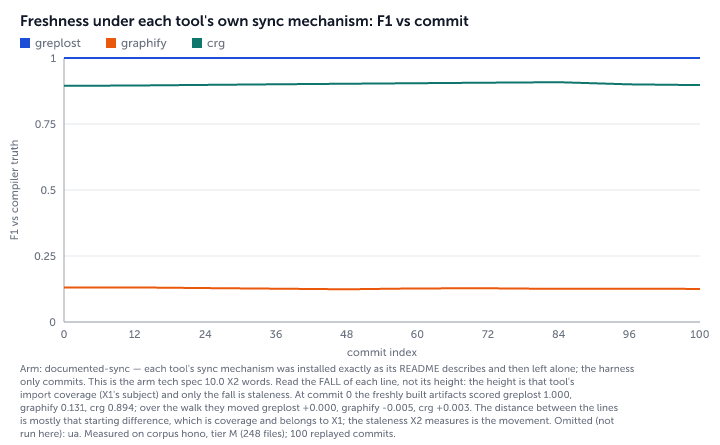
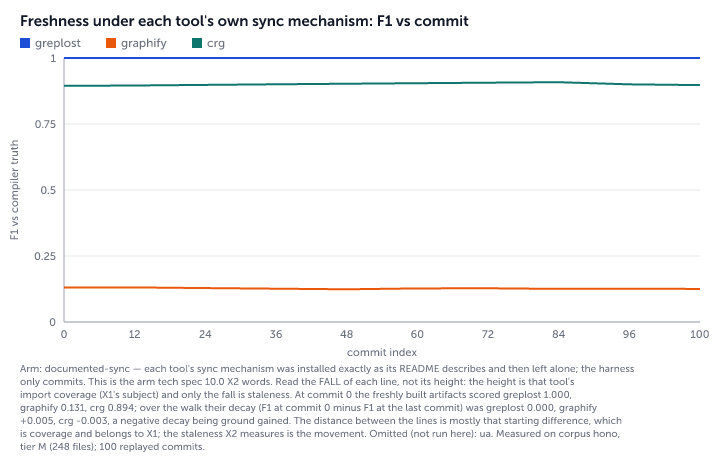
fix(bench-report): the tier-S metrics re-measured so every loss carries its reason
`bun run bench:headtohead --tier S --metrics X1,X4,X5,X6` at 173a463. The run
was needed for two round-2 items that live in the payload rather than in the
renderer: X5's graphify cell now carries the reason its `loss` verdict owes the
reader ("24 of 99031 artifact lines changed against greplost's 54 of 10511, a
quieter diff than greplost's", with the three files named), and X6's target is
stored scoped — "<= 5s and $0 (measured on anyq, tier S, not tier M)" — in the
JSON and not only in the document.

X1 calls 1.000 P / 0.468 R and imports 1.000 P / 1.000 R, X4 0 bytes, X5 a
published loss at 54 of 10,511 lines, X6 0.283 s. The superseded dfb733a
payload is removed; it is in history.

bun test 1238 pass 0 fail; typecheck clean; 12/12 gates met.

diff --git a/bench/RESULTS.md b/bench/RESULTS.md
@@ -13,7 +13,7 @@ Suites with no result file in `bench/results/`, rendered as `not run`: agent.
 | cores | 16 |
 | cpu | Apple M4 Max |
 | go | go version go1.25.3 darwin/arm64 |
-| greplostSha | dfb733a |
+| greplostSha | b908e0f |
 | greplostVersion | 0.0.1 |
 | memoryGB | 128 |
 | node | 24.3.0 |
@@ -32,7 +32,7 @@ Suites with no result file in `bench/results/`, rendered as `not run`: agent.
 | Component | Version |
 |---|---|
 | greplostVersion | 0.0.1 |
-| greplostSha | dfb733a |
+| greplostSha | b908e0f |
 | bun | 1.2.21 |
 | node | 24.3.0 |
 | go | go version go1.25.3 darwin/arm64 |
@@ -44,7 +44,7 @@ Suites with no result file in `bench/results/`, rendered as `not run`: agent.
 
 greplost against Graphify, Understand-Anything and code-review-graph (tech spec 3.1, 10.0). The `vs` columns are greplost's verdict against that tool: `win` means greplost came out ahead by the metric's margin, `tie` inside it, `loss` behind it, `n/a` when the tool could not be run at all. Every loss and every `n/a` carries its reason.
 
-- X1, X4, X5, X6: Measured 2026-09-02 at dfb733a on anyq, tier S (148 files).
+- X1, X4, X5, X6: Measured 2026-09-02 at 173a463 on anyq, tier S (148 files).
 - X2, X3: Measured 2026-09-02 at b908e0f on hono, tier M (248 files, 100 commits).
 
 | ID | Target | Measured | vs graphify | vs ua | vs crg | Reason on loss |
@@ -53,8 +53,8 @@ greplost against Graphify, Understand-Anything and code-review-graph (tech spec 
 | X2 | greplost F1 >= 0.99 after 100 commits | 1 | tie (decay +0.0052 (0.131 to 0.125)) | n/a | tie (decay -0.0028 (0.894 to 0.897)) | greplost: greplost started the walk at 1 import F1 and ended at 1, a fall of 0.000. The level is coverage (X1's subject); only the fall is staleness |
 | X3 | <= 1% of ua, <= 20% of graphify over 100 commits | $0, 0.299 min | win ($0, 2.365 min) | n/a | win ($0, 0.858 min) | greplost: evaluated on the graphify arm of the target only: 12.6% of graphify's wall-clock (target <= 20%). The ua arm cannot be evaluated — Understand-Anything has no headless entry point here, so no cost exists to take 1% of. |
 | X4 | 0 bytes differ | 0 bytes | tie (0 bytes) | n/a | win (5160286 bytes) |  |
-| X5 | <= 10 artifact lines | 54 of 10511 lines | loss (24 of 99031 lines) | n/a | win (60 of 88119 lines) | greplost: 54 artifact lines of 10511 changed across 12 files for a one-line source change; the target is 10 lines. Where: `manifest.json` 20 lines, `packages/anyq__kafka/MAP.md` 8 lines, `packages/anyq__example-retry-strategies/MAP.md` 7 lines, `packages/anyq__example-retry-strategies/modules/src/adapters/kafka.ts.md` 4 lines, and 8 more files |
-| X6 | <= 5s and $0 (measured on anyq, tier S, not tier M) | 0.266 s ($0) | win (2.062 s) | n/a | win (1.125 s) |  |
+| X5 | <= 10 artifact lines | 54 of 10511 lines | loss (24 of 99031 lines) | n/a | win (60 of 88119 lines) | greplost: 54 artifact lines of 10511 changed across 12 files for a one-line source change; the target is 10 lines. Where: `manifest.json` 20 lines, `packages/anyq__kafka/MAP.md` 8 lines, `packages/anyq__example-retry-strategies/MAP.md` 7 lines, `packages/anyq__example-retry-strategies/modules/src/adapters/kafka.ts.md` 4 lines, and 8 more files; graphify: 24 of 99031 artifact lines changed against greplost's 54 of 10511, a quieter diff than greplost's. Where: `graphify-out/graph.json` 12 lines, `graphify-out/GRAPH_REPORT.md` 6 lines, `graphify-out/manifest.json` 6 lines |
+| X6 | <= 5s and $0 (measured on anyq, tier S, not tier M) | 0.283 s ($0) | win (2.159 s) | n/a | win (1.207 s) |  |
 | X7 | accuracy >= best, tool calls <= 50% of best | n/a | n/a | n/a | n/a |  |
 | X8 | <= 50% of best competitor tokens | n/a | n/a | n/a | n/a |  |
 | X9 | fastest, highest hit rate | n/a | n/a | n/a | n/a |  |
@@ -65,7 +65,7 @@ greplost against Graphify, Understand-Anything and code-review-graph (tech spec 
 - **X3** Cost to stay fresh over 100 replayed commits: greplost $0, 0.299 min, graphify $0, 2.365 min, ua n/a, crg $0, 0.858 min
 - **X4** Reproducibility: two builds of one commit: greplost 0 bytes, graphify 0 bytes, ua n/a, crg 5160286 bytes
 - **X5** Diff signal after a one-line change: greplost 54 of 10511 lines, graphify 24 of 99031 lines, ua n/a, crg 60 of 88119 lines
-- **X6** Cold start to first usable map: greplost 0.266 s ($0), graphify 2.062 s, ua n/a, crg 1.125 s
+- **X6** Cold start to first usable map: greplost 0.283 s ($0), graphify 2.159 s, ua n/a, crg 1.207 s
 - **X7** Agent structural tasks: greplost n/a, graphify n/a, ua n/a, crg n/a
 - **X8** Orientation cost: greplost n/a, graphify n/a, ua n/a, crg n/a
 - **X9** Reviewer task: spot the new cross-package dependency: greplost n/a, graphify n/a, ua n/a, crg n/a
@@ -81,16 +81,6 @@ greplost against Graphify, Understand-Anything and code-review-graph (tech spec 
 > ua: N/A — distributed only as a Claude Code plugin, and `/understand` is a multi-agent LLM pipeline: there is no headless CLI, so the only way to drive it is `claude --plugin-dir <clone>/understand-anything-plugin -p "/understand"` against a clone pinned at v2.9.0, inside the scratch HOME. That spends model tokens on every commit of every metric, so this harness does not run it and never installs the plugin into the machine’s real Claude Code configuration.
 > crg: `build` + `visualize --format json` produce the artifact; `graph.db` is excluded from the byte comparison because a SQLite page layout is not the tool's output contract. `code-review-graph install` runs only in X2's documented-sync arm and only with HOME, XDG_* and CLAUDE_CONFIG_DIR pointed inside bench/.competitors/home.
 > crg: every command ran with HOME=bench/.competitors/home (XDG and CLAUDE_CONFIG_DIR pointed inside it), so nothing it writes outside the repo copy reaches the machine's real configuration.
-> X1: both sides restricted to the 148 files the TypeScript compiler loaded, and both scored over every edge each tool emits at any confidence. The confidence=high arm (greplost's S3 gate, graphify's and crg's `EXTRACTED` tier) is reported beside it in each cell's detail; scoring greplost at high while scoring a competitor at every confidence would flatter greplost on precision by construction.
-> X4: every tool is built twice on the same tree, each build in its own process, and the differing bytes of its documented artifact files are counted after trimming the common prefix and suffix (an upper bound on the edit distance, exact for a single contiguous change). greplost is compared over the structure artifacts `listStructurePaths` enumerates; viewer and database files are excluded per competitor, and each cell's `caveat` says which.
-> X5: the one-line change is `import "./kafka.js";` appended to `apps/examples/retry-strategies/src/adapters/nats.ts`, adding the edge apps/examples/retry-strategies/src/adapters/nats.ts -> apps/examples/retry-strategies/src/adapters/kafka.ts.
-> X5: lines changed is added plus removed lines from a line-level longest-common-subsequence per artifact file (multiset difference above 4000 lines).
-> X5 readability (tech spec 10.0's "can a human read the architectural change from the diff alone"): greplost added a line naming both the importer and the imported module; graphify, crg did not, so the new edge is not legible in the diff at any length.
-> X6: timed from a fresh copy of the repo (no cache, no artifact) to the tool's own first usable output, 3 runs each, median reported and the spread in each cell's detail, every tool in its own child process so interpreter startup is counted for all of them. greplost's command is `greplost init --no-hooks` and its USD is 0; a competitor's documented first pass may cost model tokens, and where the no-LLM path was used instead the cell's caveat says so.
-> graphify sync mechanism (X2, from bench/competitors.json): git hooks.
-> ua sync mechanism (X2, from bench/competitors.json): git post-commit hook, opt-in.
-> crg sync mechanism (X2, from bench/competitors.json): platform hooks plus a watcher.
-> Mechanical staleness check (tech spec 10.0 X2): greplost has `verify` (byte comparison against a rebuild, exit 1 on drift). None of the three competitors ships an equivalent: their artifacts are refreshed, never checked.
 > X2: the walk is 100 synthetic commits over hono, each adding one resolvable import line, scored every 12 commits against compiler truth at that commit.
 > X2: the plotted number is import edge F1 against compiler truth at that commit, and the curve starts at commit 0 with each tool's freshly built artifact. The **level** of a line is that tool's import coverage, not its freshness: the four tools do not model imports alike, and X1 measures how far apart they start (on this corpus graphify recalls a small fraction of the import edges the compiler sees). The **fall** of a line between commit 0 and the last commit is the staleness this metric is about, and it is reported as `decay` in every cell. A reader comparing two end-points is comparing coverage plus decay; only the decay belongs to X2. Call F1 is in each cell's detail.
 > X2 arm `documented-sync` (`syncF1@<commit>` in each cell's detail): each tool's own sync mechanism was installed exactly as its README describes and then left alone: the harness commits, and nothing else.
@@ -101,6 +91,16 @@ greplost against Graphify, Understand-Anything and code-review-graph (tech spec 
 > X2: how much of the gap is coverage and how much is staleness — graphify: end-point gap 0.875, of which 0.869 was already there at commit 0 (coverage) and 0.005 is the difference in decay; crg: end-point gap 0.103, of which 0.106 was already there at commit 0 (coverage) and -0.003 is the difference in decay. X1 is where a coverage difference belongs; X2 is only the fall.
 > X3: every tool's wall-clock is the run time of the child processes its own commit-time mechanism started, interpreter startup included, measured the same way for greplost as for the competitors. crg's `visualize --format json` export is outside that number: its hook does not run it, and it is invoked by this suite only at scoring checkpoints, because greplost has no export step to charge against it.
 > X3: every tool that ran here ran its no-LLM path, so USD is 0 for all of them and the verdict falls to wall-clock. That is not the tech spec's comparison, which costs each tool's *documented* refresh: graphify's `/graphify` first pass and Understand-Anything's `/understand` are LLM pipelines whose USD this harness cannot measure without model credentials. The zero is what was measured, not a claim that their documented path is free.
+> graphify sync mechanism (X2, from bench/competitors.json): git hooks.
+> ua sync mechanism (X2, from bench/competitors.json): git post-commit hook, opt-in.
+> crg sync mechanism (X2, from bench/competitors.json): platform hooks plus a watcher.
+> Mechanical staleness check (tech spec 10.0 X2): greplost has `verify` (byte comparison against a rebuild, exit 1 on drift). None of the three competitors ships an equivalent: their artifacts are refreshed, never checked.
+> X1: both sides restricted to the 148 files the TypeScript compiler loaded, and both scored over every edge each tool emits at any confidence. The confidence=high arm (greplost's S3 gate, graphify's and crg's `EXTRACTED` tier) is reported beside it in each cell's detail; scoring greplost at high while scoring a competitor at every confidence would flatter greplost on precision by construction.
+> X4: every tool is built twice on the same tree, each build in its own process, and the differing bytes of its documented artifact files are counted after trimming the common prefix and suffix (an upper bound on the edit distance, exact for a single contiguous change). greplost is compared over the structure artifacts `listStructurePaths` enumerates; viewer and database files are excluded per competitor, and each cell's `caveat` says which.
+> X5: the one-line change is `import "./kafka.js";` appended to `apps/examples/retry-strategies/src/adapters/nats.ts`, adding the edge apps/examples/retry-strategies/src/adapters/nats.ts -> apps/examples/retry-strategies/src/adapters/kafka.ts.
+> X5: lines changed is added plus removed lines from a line-level longest-common-subsequence per artifact file (multiset difference above 4000 lines).
+> X5 readability (tech spec 10.0's "can a human read the architectural change from the diff alone"): greplost added a line naming both the importer and the imported module; graphify, crg did not, so the new edge is not legible in the diff at any length.
+> X6: timed from a fresh copy of the repo (no cache, no artifact) to the tool's own first usable output, 3 runs each, median reported and the spread in each cell's detail, every tool in its own child process so interpreter startup is counted for all of them. greplost's command is `greplost init --no-hooks` and its USD is 0; a competitor's documented first pass may cost model tokens, and where the no-LLM path was used instead the cell's caveat says so.
 
 **X2 (hero chart): freshness under each tool's own sync mechanism, F1 vs commit**
 
@@ -113,7 +113,7 @@ xychart-beta
     line [0.131, 0.131, 0.129, 0.126, 0.124, 0.127, 0.128, 0.126, 0.126, 0.125]
     line [0.894, 0.896, 0.898, 0.9, 0.902, 0.904, 0.906, 0.908, 0.9, 0.897]
     %% series, in order: greplost, graphify, crg
-    %% Arm: documented-sync — each tool's sync mechanism was installed exactly as its README describes and then left alone; the harness only commits. This is the arm tech spec 10.0 X2 words. Read the FALL of each line, not its height: the height is that tool's import coverage (X1's subject) and only the fall is staleness. At commit 0 the freshly built artifacts scored greplost 1.000, graphify 0.131, crg 0.894; over the walk they moved greplost +0.000, graphify -0.005, crg +0.003. The distance between the lines is mostly that starting difference, which is coverage and belongs to X1; the staleness X2 measures is the movement. Omitted (not run here): ua. Measured on corpus hono, tier M (248 files); 100 replayed commits.
+    %% Arm: documented-sync — each tool's sync mechanism was installed exactly as its README describes and then left alone; the harness only commits. This is the arm tech spec 10.0 X2 words. Read the FALL of each line, not its height: the height is that tool's import coverage (X1's subject) and only the fall is staleness. At commit 0 the freshly built artifacts scored greplost 1.000, graphify 0.131, crg 0.894; over the walk their decay (F1 at commit 0 minus F1 at the last commit) was greplost 0.000, graphify +0.005, crg -0.003, a negative decay being ground gained. The distance between the lines is mostly that starting difference, which is coverage and belongs to X1; the staleness X2 measures is the movement. Omitted (not run here): ua. Measured on corpus hono, tier M (248 files); 100 replayed commits.
 ```
 
 ![X2 (hero chart): freshness under each tool's own sync mechanism, F1 vs commit](../docs/assets/x2-staleness.png)
